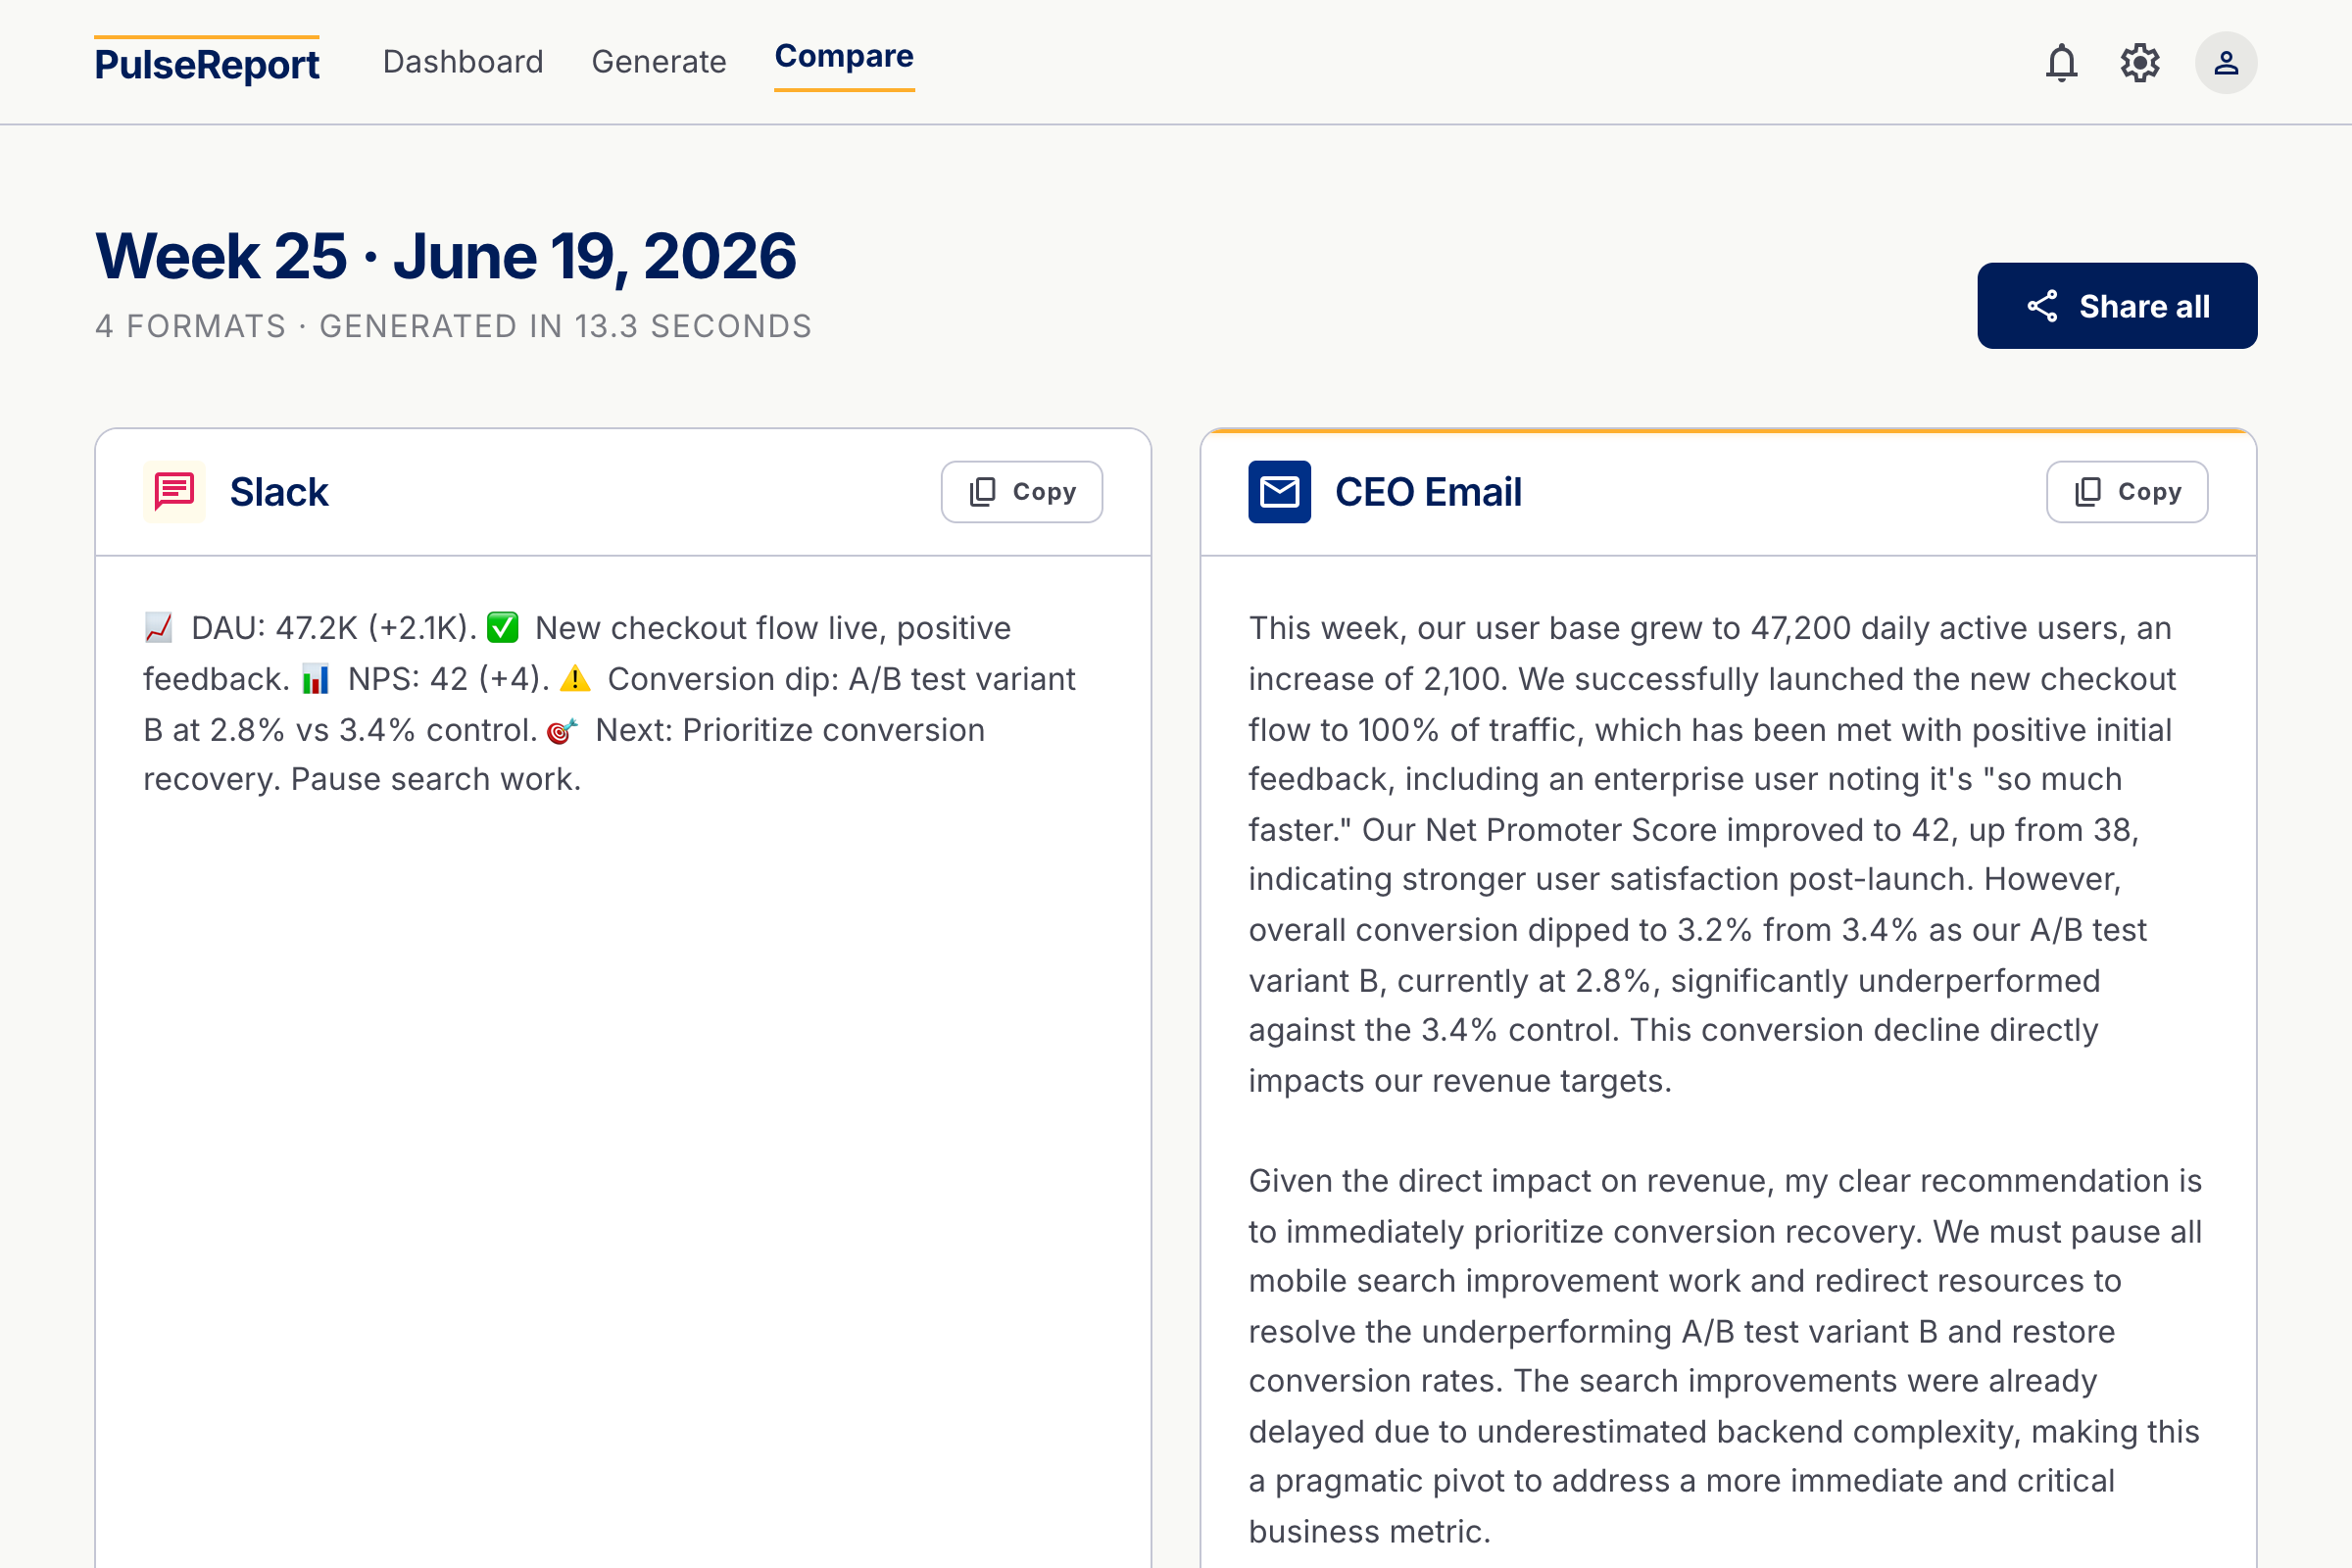
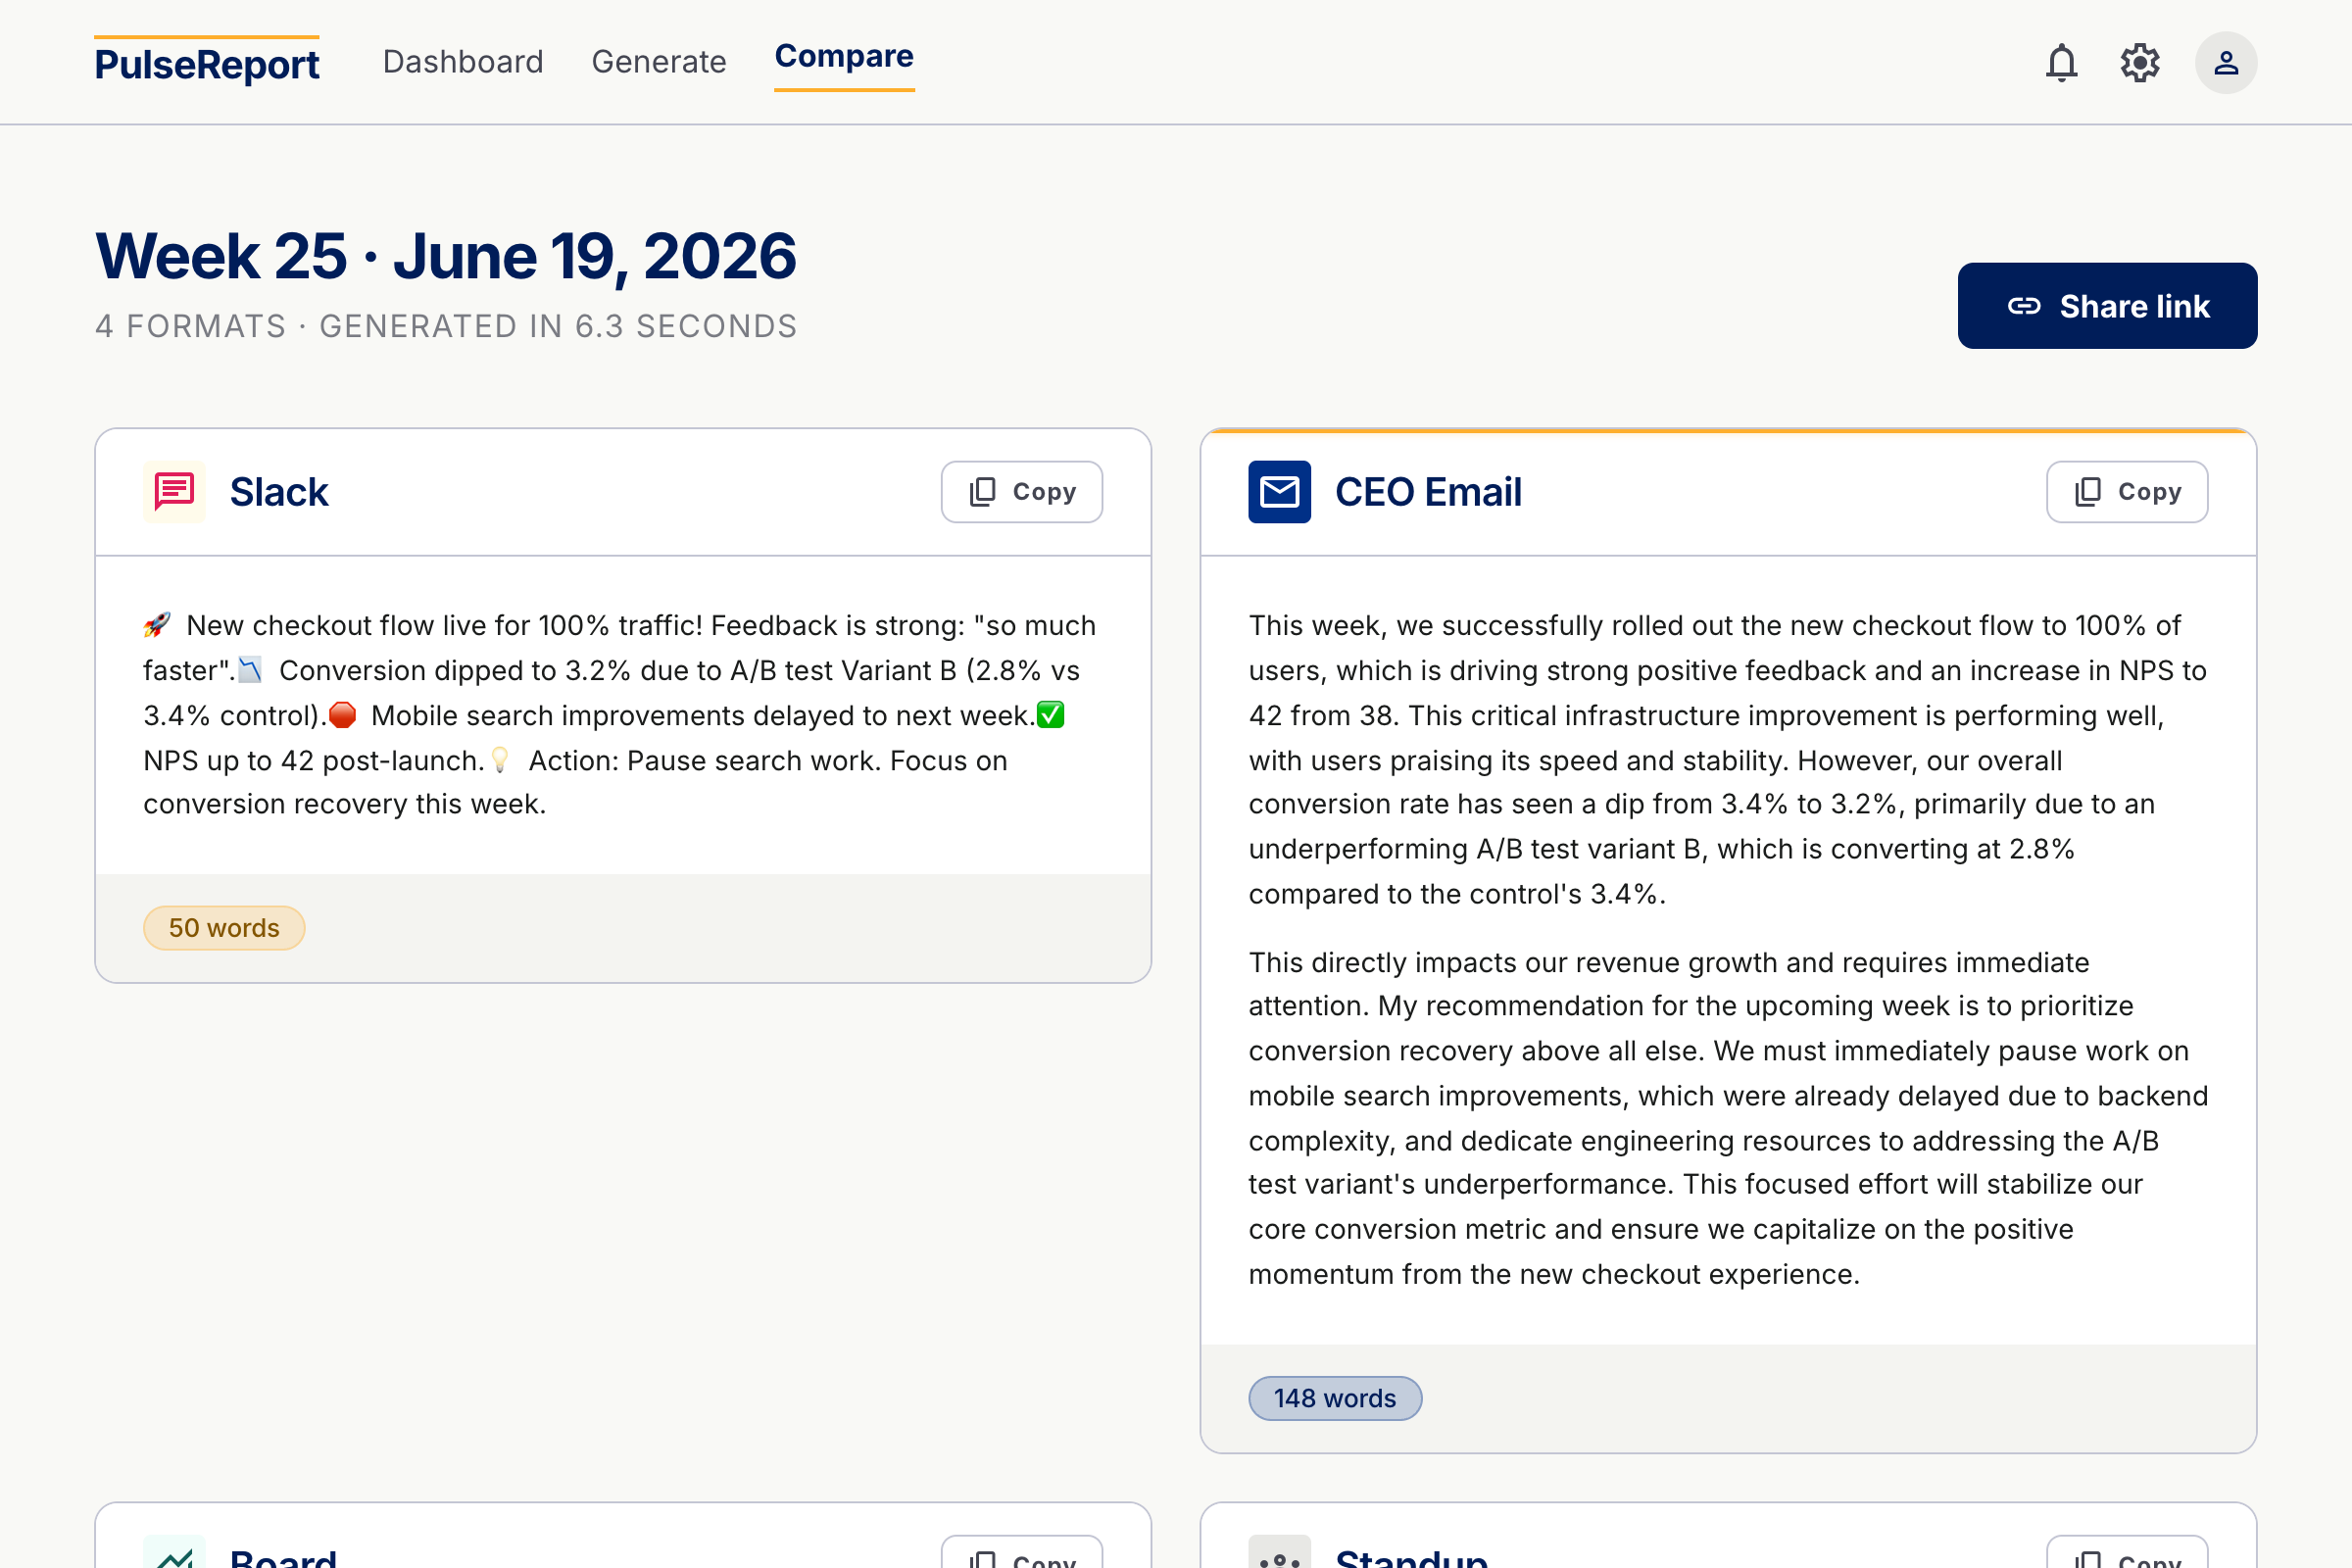
Add SUBMISSION.md kit + refresh gallery screenshots from polished build

diff --git a/SUBMISSION.md b/SUBMISSION.md
@@ -1,0 +1,112 @@
+# PulseReport — Record & Submit Kit
+
+Everything is built, deployed, and verified. The **only** thing left is recording the
+video and pasting these answers into Devpost. Work top to bottom.
+
+- **Live:** https://pulsereport-tan.vercel.app
+- **Judge demo:** https://pulsereport-tan.vercel.app/generate?demo=1
+- **Repo:** https://github.com/manojmallick/pulsereport
+- **Deadline:** June 20, 2026 · 5:00 PM GMT
+
+✅ Verified green: all 7 routes 200 · live Gemini (~6s, all 4 formats) · Judge Mode ·
+shareable links (stateless) · Novus events firing (`report_generated`, `format_switched`,
+`format_copied`, `report_shared`, `shared_report_viewed`) delivering to `data.pendo.io` ·
+mobile no-overflow.
+
+---
+
+## 1) Record the video (90 seconds) — do this first
+
+Screen-record (QuickTime: File → New Screen Recording) → upload **Unlisted** to YouTube →
+paste the URL into Devpost's "Video demo link".
+
+**Teleprompter (read at a natural pace ≈ 90s):**
+
+> **[0:00 — your calendar, Monday 9am]**
+> "It's Monday morning. Three meetings, two Slack threads, all asking the same thing: a quick update on last week. Every product manager knows this. You write it once… then rewrite it for the CEO. Again for the board. Again for engineering. Three hours, every single week."
+>
+> **[0:14 — open pulsereport-tan.vercel.app/generate?demo=1]**
+> "This is PulseReport. You paste your week once — your metrics, what shipped, the feedback."
+>
+> **[0:22 — click Generate, the amber pulse line runs]**
+> "And in about six seconds…"
+>
+> **[0:30 — click through the four tabs]**
+> "…it writes your update for every audience. A scannable Slack post. A strategic email for the CEO — specific numbers, no fluff. Five crisp board bullets. And a technical engineering standup. Each one written *for* that reader — not a template with the words swapped."
+>
+> **[0:55 — click Compare all 4, then Share link]**
+> "Here they are side by side. And 'Share link' gives me a URL I can forward straight to my CEO — they open it instantly, no login."
+>
+> **[1:08 — your Novus dashboard with live events]**
+> "It's also instrumented with Novus. So I can see which format PMs actually copy first — that's real product thinking, measured, not guessed."
+>
+> **[1:20 — landing page / pulse line]**
+> "Notion and Linear tell you *what* happened. PulseReport turns it into the story — for everyone who needs it. Everyone Ships Now. PMs ship their weekly update in sixty seconds."
+
+---
+
+## 2) Devpost — Project overview
+
+| Field | Paste |
+|---|---|
+| **Project name** | `PulseReport` |
+| **Elevator pitch** (≤200) | `Paste your week once; PulseReport writes your product update in 4 formats—Slack, CEO email, board slide, eng standup—in 60 seconds. Powered by Gemini + Novus.ai. #EveryoneShipsNow` |
+| **Thumbnail** | upload `thumbnail.png` |
+
+## 3) Devpost — Project details
+
+**Built with** (tags): `next.js, react, typescript, tailwind, google-gemini, pendo, vercel, node.js`
+
+**"Try it out" links:**
+- `https://pulsereport-tan.vercel.app`
+- `https://github.com/manojmallick/pulsereport`
+
+**Image gallery** (upload in this order — first becomes the card preview):
+1. `shot-2-generate.png` — Judge Mode + live output (lead image)
+2. `shot-3-compare.png` — all four formats side by side
+3. `shot-1-landing.png` — landing / hero
+4. `novus-proof-1.png` — **Novus dashboard with live events (required proof)**
+
+**Project story:** paste the body of [`DEVPOST.md`](DEVPOST.md) (Inspiration → What it does →
+How we built it → Judge Mode → Novus story → Challenges → What's next → Impact).
+
+## 4) Devpost — Additional info (judges/organizers)
+
+| Field | Answer |
+|---|---|
+| Meet all eligibility criteria? | `Yes. Built during the hackathon period, publicly deployed on Vercel, Novus.ai installed and actively tracking. Meets all eligibility criteria.` |
+| When did you begin? | `June 10, 2026` |
+| Likely to use moving forward? | Select **the most positive option** (Very/Extremely likely) |
+| How will this advance your skills? (≤250) | `PulseReport turns ~3 hrs/week of rewriting the same product update for different audiences into 60 seconds. Building it sharpened my Next.js 15, Gemini API, and product-analytics (Novus.ai) skills — a reusable pattern for multi-audience AI tools.` |
+| Public URL | `https://pulsereport-tan.vercel.app` |
+| Novus.ai proof URL | `https://novus.pendo.io/admin/subscription` |
+| ☑ Uploaded Novus screenshot to carousel | tick it (you've added `novus-proof-1.png`) |
+| Video demo link | *(paste your YouTube URL from step 1)* |
+
+---
+
+## 5) Before you submit — drive REAL Novus numbers (highest-leverage)
+
+Post this so visitors' events land in your dashboard; then cite the **actual**
+`format_copied` counts in your story (replaces any predicted stat):
+
+> Every Monday, PMs write the same update — then rewrite it for the CEO, the board, and
+> engineering standup. ~3 hours, every week.
+>
+> So I built **PulseReport** for Mind the Product's *Everyone Ships Now*: paste your week
+> once → all four formats in ~60 seconds.
+>
+> 60-second try (no login, sample pre-loaded): https://pulsereport-tan.vercel.app/generate?demo=1
+>
+> Which format would *you* reach for first? Curious what fellow PMs pick 👇 #EveryoneShipsNow
+
+---
+
+## 6) Final submit checklist
+- [ ] Video recorded + uploaded (Unlisted) + URL pasted
+- [ ] Project overview saved (name, pitch, thumbnail)
+- [ ] Built-with + Try-it-out links + gallery (incl. Novus proof) saved
+- [ ] Project story pasted
+- [ ] Additional info complete + Novus checkbox ticked
+- [ ] Outreach post live; real Novus numbers cited
+- [ ] **Submit** before June 20, 5:00 PM GMT